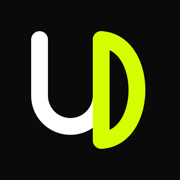
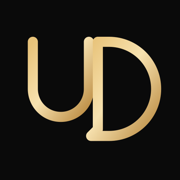
Replace UD monogram with triple-line gold mark
Vector rebuild of the supplied logo: interlocked U and D drawn as three
concentric strokes each, angled tail on the D bowl, brushed-gold gradient.

- Header carries the full triple-line mark
- Favicon uses a single-stroke simplification of the same silhouette: the
  hairlines collapse into a blob below ~48px, so the icon keeps the shape
  and drops the inner lines (verified at 32px)
- favicon.svg + 32px PNG + ICO + 180px apple-touch-icon regenerated

Changed region(s): [[0.1389, 0.1667, 0.9167, 0.8333]]

diff --git a/src/components/Header.tsx b/src/components/Header.tsx
@@ -78,26 +78,36 @@ export function Header({ revealMode = false }: HeaderProps) {
             to="/"
             className="flex items-center gap-2.5 font-display text-lg font-semibold tracking-tight text-foreground hover:opacity-70 transition-opacity"
           >
+            {/* Triple-line UD monogram */}
             <svg
-              viewBox="0 0 64 64"
-              className="h-7 w-7"
+              viewBox="0 0 150 116"
+              className="h-8 w-auto"
               role="img"
               aria-label="UD monogram"
             >
-              <path
-                d="M14 14 V34 A11 11 0 0 0 36 34 V14"
+              <defs>
+                <linearGradient id="ud-gold" x1="0" y1="0" x2="1" y2="1">
+                  <stop offset="0%" stopColor="#e8c37a" />
+                  <stop offset="45%" stopColor="#f7e2b0" />
+                  <stop offset="100%" stopColor="#b8873c" />
+                </linearGradient>
+              </defs>
+              <g
                 fill="none"
-                stroke="currentColor"
-                strokeWidth="7"
+                stroke="url(#ud-gold)"
+                strokeWidth="2.5"
                 strokeLinecap="round"
-              />
-              <path
-                d="M36 14 V50 M36 14 C53 15 53 49 36 50"
-                fill="none"
-                stroke="hsl(var(--accent))"
-                strokeWidth="7"
-                strokeLinecap="round"
-              />
+                strokeLinejoin="round"
+              >
+                {/* U */}
+                <path d="M14 14 V56 A28 28 0 0 0 70 56 V14" />
+                <path d="M21 14 V56 A21 21 0 0 0 63 56 V14" />
+                <path d="M28 14 V56 A14 14 0 0 0 56 56 V14" />
+                {/* D */}
+                <path d="M74 14 H84 A44 44 0 1 1 84 102 H68 L74 96 V14" />
+                <path d="M81 21 H84 A37 37 0 1 1 84 95 H81 V21" />
+                <path d="M88 28 A30 30 0 1 1 88 88 V28" />
+              </g>
             </svg>
             Utpal Das
           </Link>